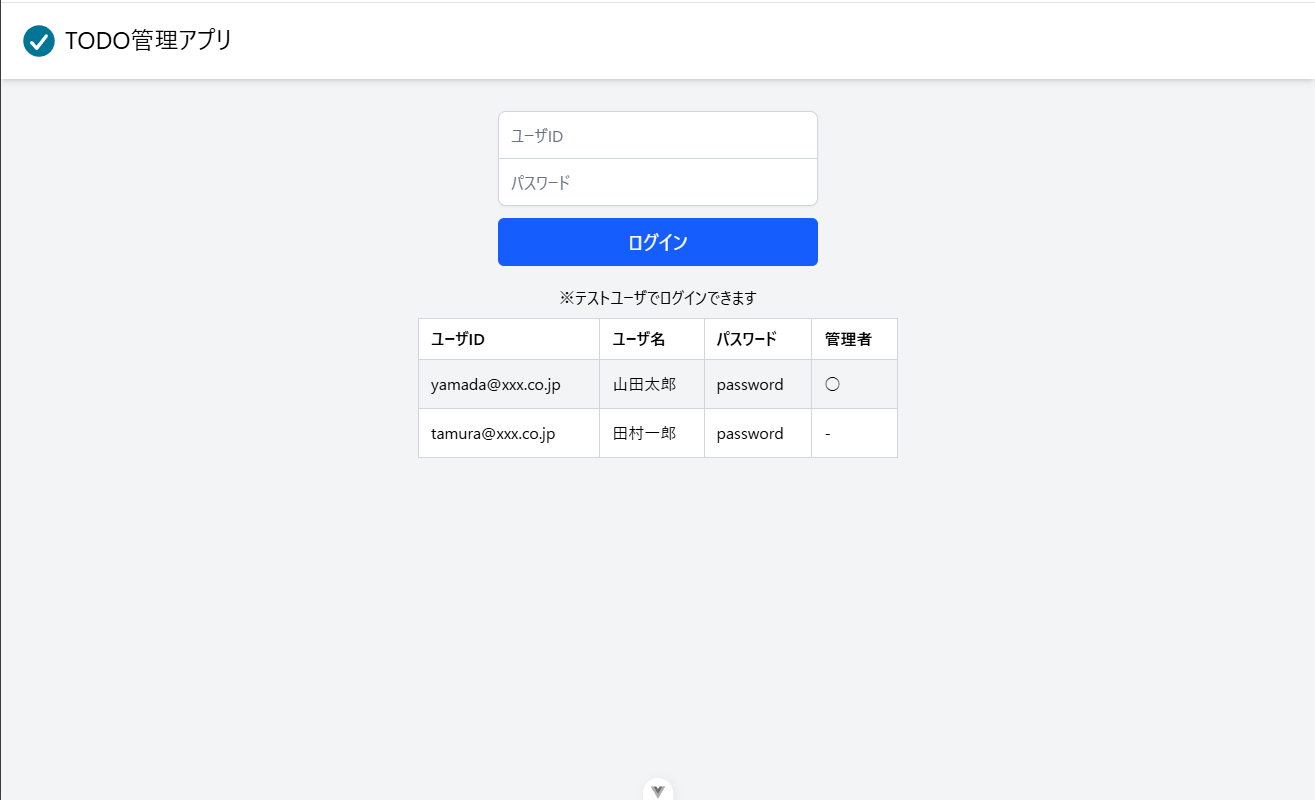
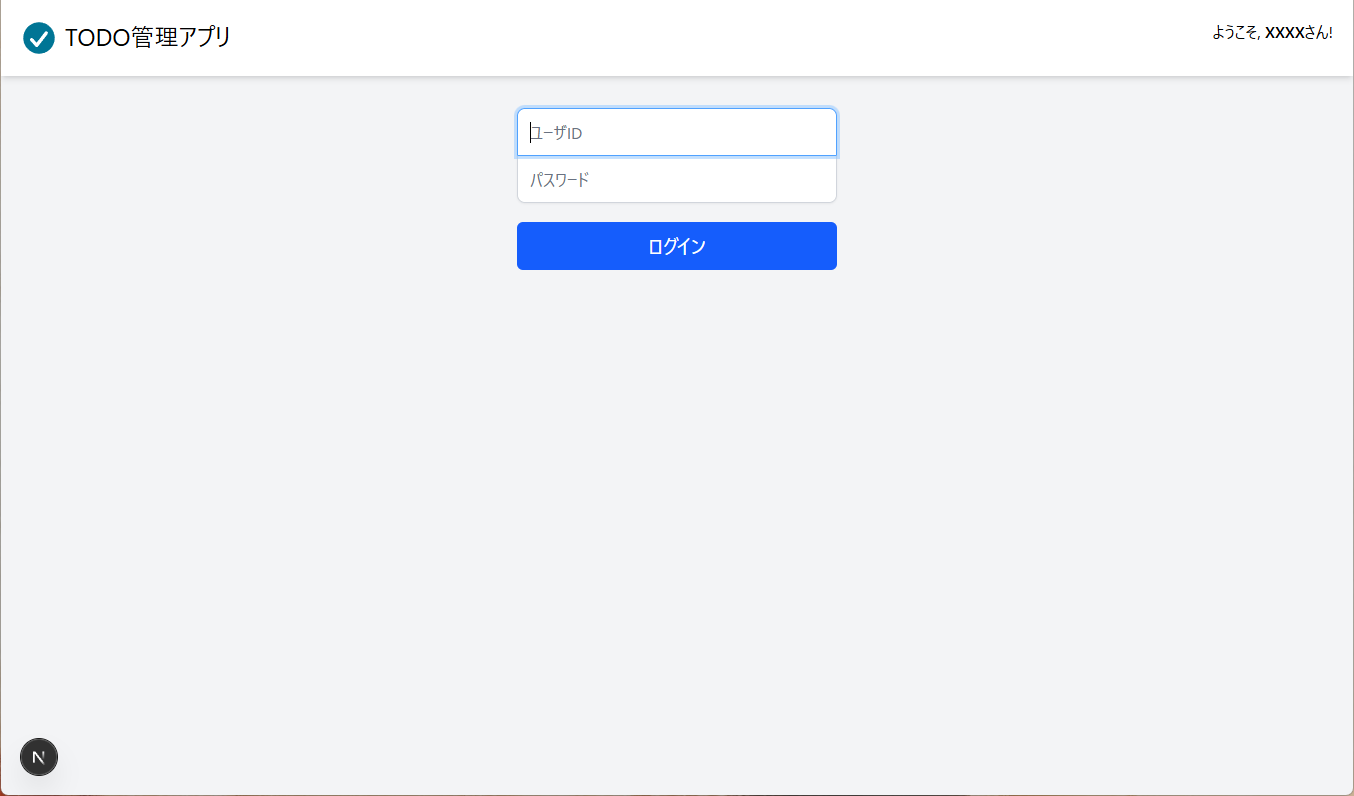
メニュー画面、NotFound画面の追加対応

diff --git a/components/button/LinkButton.tsx b/components/button/LinkButton.tsx
@@ -1,0 +1,59 @@
+// クリック時の処理はクライアントのみで動作するため"use client"を指定
+"use client";
+
+import BaseButton from "./BaseButton";
+import { useRouter } from "next/navigation";
+
+interface Props {
+  /**
+   * 遷移先のURLパス
+   */
+  forwardViewURL?: string;
+  /**
+   * アウトラインボタンかどうか
+   */
+  outline?: boolean;
+  /**
+   * ボタンが無効かどうか
+   */
+  disabled?: boolean;
+  /**
+   * ボタンのサイズ（sm, md, lg）
+   */
+  size?: "sm" | "md" | "lg" | undefined;
+  /**
+   * クラス名
+   */
+  className?: string;
+  /**
+   * ボタンに表示する子要素(children)
+   */
+  children: React.ReactNode;
+}
+
+export default function LinkButton({
+  forwardViewURL = "",
+  outline = false,
+  disabled = false,
+  size,
+  className,
+  children,
+}: Props) {
+  const router = useRouter();
+
+  const handleClick = () => {
+    router.push(forwardViewURL);
+  };
+
+  return (
+    <BaseButton
+      disabled={disabled}
+      outline={outline}
+      size={size}
+      className={className}
+      onClick={handleClick}
+    >
+      {children}
+    </BaseButton>
+  );
+}

diff --git a/components/button/BaseButton.tsx b/components/button/BaseButton.tsx
@@ -27,6 +27,10 @@ interface Props {
    * ボタンに表示する子要素(children)
    */
   children: React.ReactNode;
+  /**
+   * クリック時のイベントハンドラ
+   */
+  onClick?: React.MouseEventHandler<HTMLButtonElement>;
 }
 
 export default function BaseButton({
@@ -37,6 +41,7 @@ export default function BaseButton({
   disabled,
   className,
   children,
+  onClick,
 }: Props) {
   const height = () => {
     switch (size) {
@@ -79,6 +84,7 @@ export default function BaseButton({
       type={type}
       disabled={disabled}
       className={`rounded-md px-3 focus:ring-3 focus:outline-hidden disabled:opacity-50 ${height()} ${textSize()} ${colorSet()} ${className}`}
+      onClick={onClick}
     >
       {children}
     </button>

diff --git a/components/button/MenuButton.tsx b/components/button/MenuButton.tsx
@@ -1,0 +1,39 @@
+import LinkButton from "./LinkButton";
+
+interface Props {
+  /**
+   * 遷移先のURLパス
+   */
+  forwardViewURL?: string;
+  /**
+   * アウトラインボタンかどうか
+   */
+  outline?: boolean;
+  /**
+   * ボタンが無効かどうか
+   */
+  disabled?: boolean;
+  /**
+   * ボタンに表示する子要素(children)
+   */
+  children: React.ReactNode;
+}
+
+export default function MenuButton({
+  forwardViewURL = "",
+  outline = false,
+  disabled = false,
+  children,
+}: Props) {
+  return (
+    <LinkButton
+      className="mt-12"
+      size="lg"
+      forwardViewURL={forwardViewURL}
+      outline={outline}
+      disabled={disabled}
+    >
+      {children}
+    </LinkButton>
+  );
+}

diff --git a/app/(login)/menu/page.tsx b/app/(login)/menu/page.tsx
@@ -1,3 +1,17 @@
+import MenuButton from "@/components/button/MenuButton";
+
+/**
+ * メニュー画面
+ */
 export default function MenuView() {
-  return <h1>Menu Page</h1>;
+  return (
+    <div className="mx-auto flex flex-col">
+      <MenuButton forwardViewURL="/todo">TODO管理</MenuButton>
+      <MenuButton forwardViewURL="/todoFileUpload">TODO一括登録</MenuButton>
+      {/* TODO: 管理者ユーザのみ表示するように修正 */}
+      <MenuButton forwardViewURL="/users">ユーザ管理</MenuButton>
+      {/* TODO: ログアウト処理を実装するように修正 */}
+      <MenuButton forwardViewURL="/">ログアウト</MenuButton>
+    </div>
+  );
 }

diff --git a/app/layout.tsx b/app/layout.tsx
@@ -1,6 +1,7 @@
 import type { Metadata } from "next";
 import "./globals.css";
 import MainContainer from "@/components/layout/MainContainer";
+import HeaderArea from "@/components/layout/HeaderArea";
 
 export const metadata: Metadata = {
   title: "Todo管理アプリ",
@@ -9,15 +10,13 @@ export const metadata: Metadata = {
 
 export default function RootLayout({
   children,
-  header,
 }: Readonly<{
   children: React.ReactNode;
-  header: React.ReactNode;
 }>) {
   return (
     <html lang="ja">
       <body>
-        {header}
+        <HeaderArea title="TODO管理アプリ" />
         <MainContainer>{children}</MainContainer>
       </body>
     </html>

diff --git a/app/not-found.tsx b/app/not-found.tsx
@@ -1,0 +1,17 @@
+import LinkButton from "@/components/button/LinkButton";
+
+/**
+ * メニュー画面
+ */
+export default function NotFoundView() {
+  return (
+    <>
+      <div>
+        <h1 className="text-2xl">[404] Not Found</h1>
+      </div>
+      <LinkButton className="mt-3" forwardViewURL="/">
+        トップページへ戻る
+      </LinkButton>
+    </>
+  );
+}

diff --git a/app/(login)/page.tsx b/app/(login)/page.tsx
@@ -1,5 +1,9 @@
 import LoginFormPart from "./_components/LoginFormPart";
 
+/**
+ * ログイン画面
+ * @returns
+ */
 export default function LoginView() {
   return (
     <>

diff --git a/README.md b/README.md
@@ -96,7 +96,7 @@ pnpm start
 | 画面名 | 説明 | 画面イメージ | Storybook | Vue+TailWindソースコード | （参考比較）Thymeleaf+Bootstrapソースコード |
 | ---- | ---- | ---- | ---- | ---- | ---- |
 | ログイン画面 | トップページの画面で、ユーザがログインするための画面。 | [画面](docs/img/screen/screen1.png) | [Storybook]() | [ソースコード](./app/(login)/page.tsx) | [ソースコード](https://github.com/mysd33/sample-bff/blob/main/src/main/resources/templates/login/login.html) |
-| メニュー画面 | メニュー画面。ログインユーザのロールによって管理者メニューの表示有無が切り替わる。 | [画面]() | [Storybook]() | [ソースコード]() | [ソースコード](https://github.com/mysd33/sample-bff/blob/main/src/main/resources/templates/menu/menu.html) |
+| メニュー画面 | メニュー画面。ログインユーザのロールによって管理者メニューの表示有無が切り替わる。 | [画面](docs/img/screen/screen2.png) | [Storybook]() | [ソースコード](./app/(login)/menu/page.tsx) | [ソースコード](https://github.com/mysd33/sample-bff/blob/main/src/main/resources/templates/menu/menu.html) |
 | Todo管理画面 | Todoリストの一覧表示、登録、完了、削除といった操作を実施できる画面。 | [画面](docs/img/screen/screen3.png)  | [Storybook]() | [ソースコード]() | [ソースコード](https://github.com/mysd33/sample-bff/blob/main/src/main/resources/templates/todo/todoList.html) |
 | Todo一括登録画面 | Todoリストを記載したCSVファイルをアップロードし、非同期でTodoリストを登録できる画面。 | [画面](docs/img/screen/screen4.png) | [Storybook]() | [ソースコード]() | [ソースコード](https://github.com/mysd33/sample-bff/blob/main/src/main/resources/templates/todo/upload.html)  |
 | ユーザ一覧画面 | 登録されているユーザを一覧表示&CSVファイルダウンロードできる画面。 | [画面](docs/img/screen/screen5.png) | [Storybook]() | [ソースコード]() | [ソースコード](https://github.com/mysd33/sample-bff/blob/main/src/main/resources/templates/user/userList.html) |
